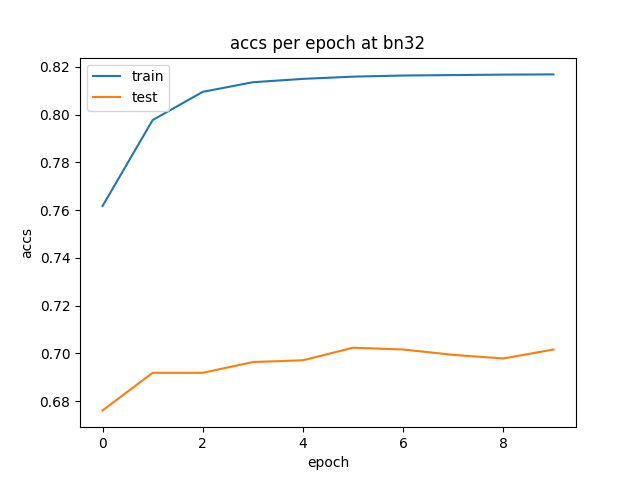
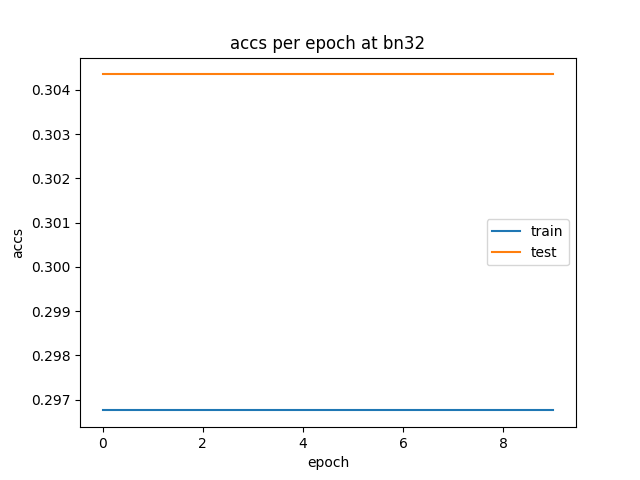
add 86

diff --git a/ch09/86/86.py b/ch09/86/86.py
@@ -143,7 +143,7 @@ def train_fn(model, loader, device, optimizer, criterion, BATCHSIZE, HIDDEN_SIZE
         dataloader_x.to(device)
         dataloader_y.to(device)
 
-        optimizer.zero_grad()
+        # optimizer.zero_grad()
 
         dataloader_y_pred_prob = model(
             x=dataloader_x,
@@ -154,7 +154,7 @@ def train_fn(model, loader, device, optimizer, criterion, BATCHSIZE, HIDDEN_SIZE
         loss = criterion(dataloader_y_pred_prob, dataloader_y)
         # 勾配の計算
         loss.backward()
-        optimizer.step()
+        # optimizer.step()
 
         # 訓練データでの損失の平均を計算する
         train_running_loss += loss.item() / len(loader)
@@ -258,7 +258,8 @@ if __name__ == '__main__':
 
     # criterion, optimizerの設定
     criterion = nn.CrossEntropyLoss()
-    optimizer = torch.optim.SGD(model.parameters(), lr=0.05)
+    # optimizer = torch.optim.SGD(model.parameters(), lr=0.05)
+    optimizer = None
 
     # datasetの定義
     dataset_train = TextDataset(train['TITLE'], train['CATEGORY'], device)
@@ -295,10 +296,10 @@ if __name__ == '__main__':
         # 20epoch毎にチェックポイントを生成
         if epoch % 20 == 0:
             torch.save(model.state_dict(), f"86_model_epoch{epoch}.pth")
-            torch.save(
-                optimizer.state_dict(),
-                f"86_optimizer_epoch{epoch}.pth",
-            )
+            # torch.save(
+            #     optimizer.state_dict(),
+            #     f"86_optimizer_epoch{epoch}.pth",
+            # )
 
     # グラフへのプロット
     losses = {"train": train_losses, "test": test_losses}
